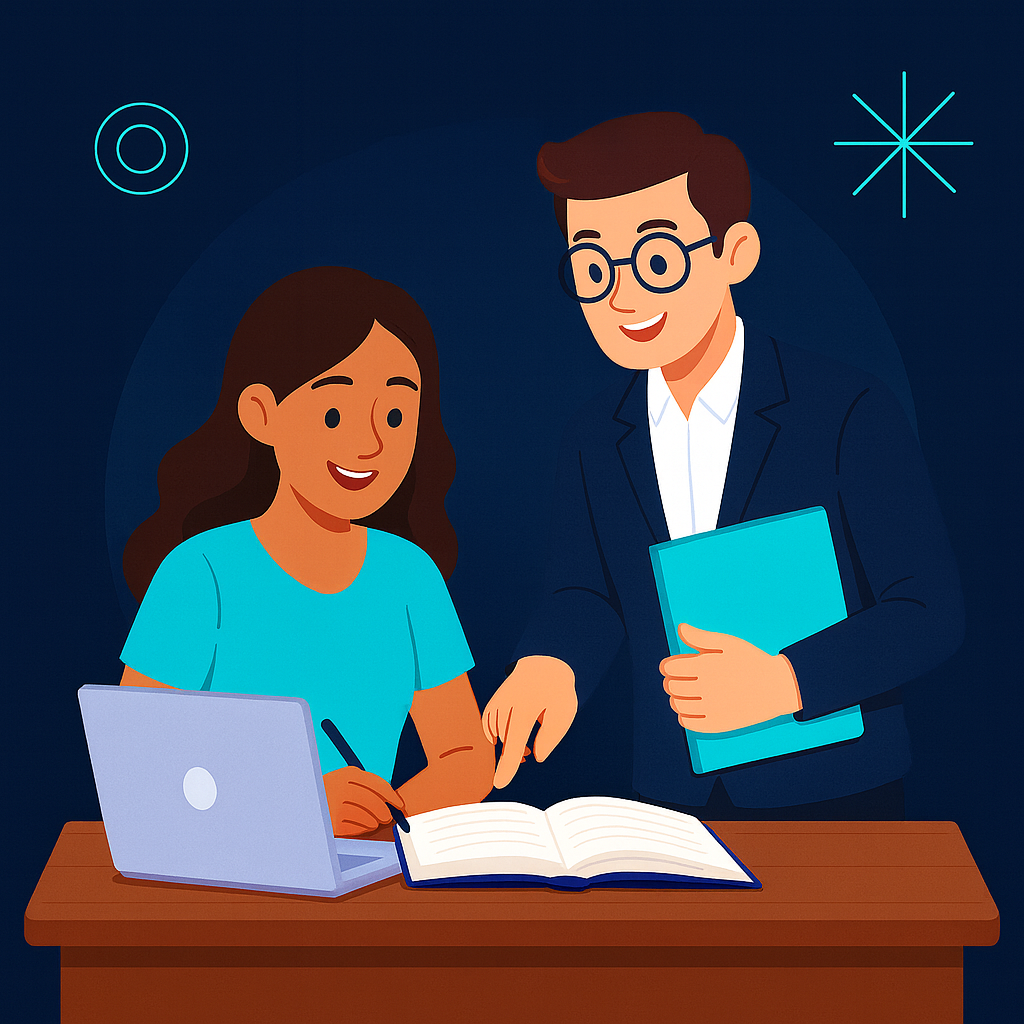
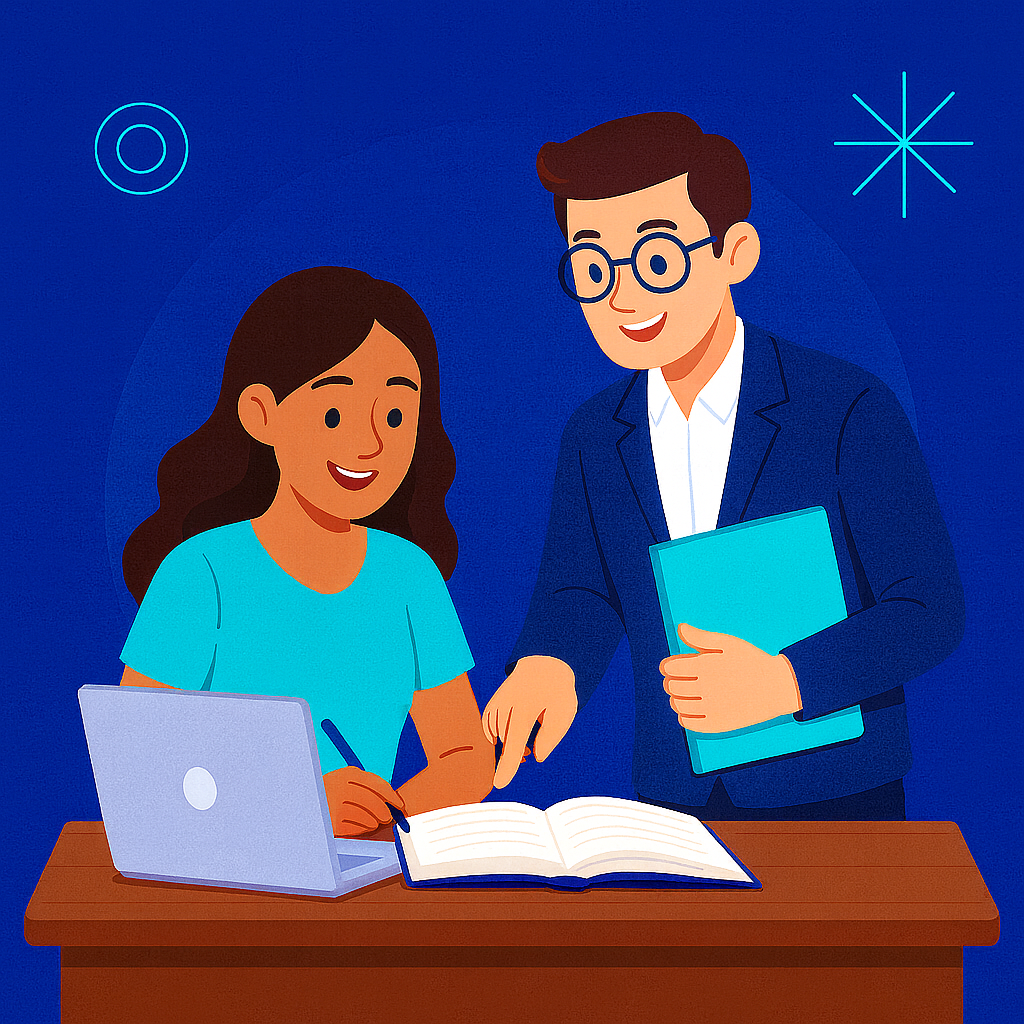
actualizacion

diff --git a/src/styles/global.css b/src/styles/global.css
@@ -3,7 +3,7 @@
 @import "tailwindcss";
 
 :root {
-  --color-principal: #001d52;
+  --color-principal: #003ea6;
   --color-secundario: #00ddc3;
 }
 
